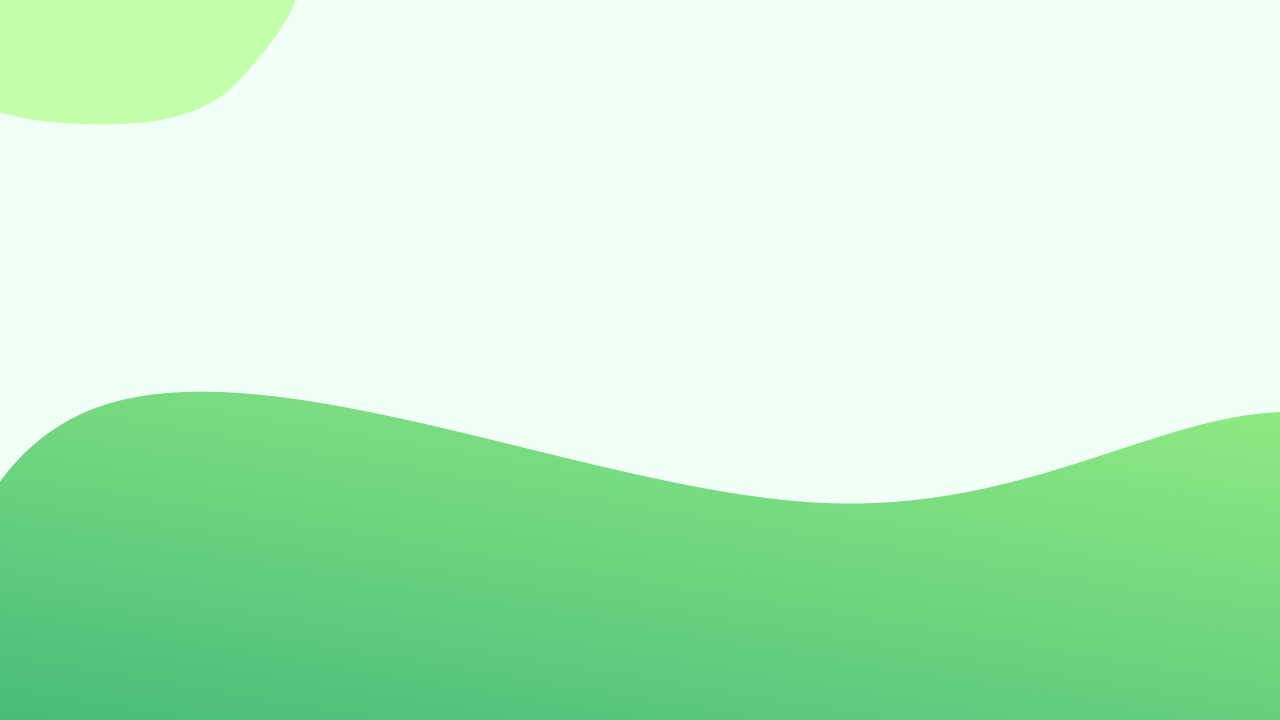
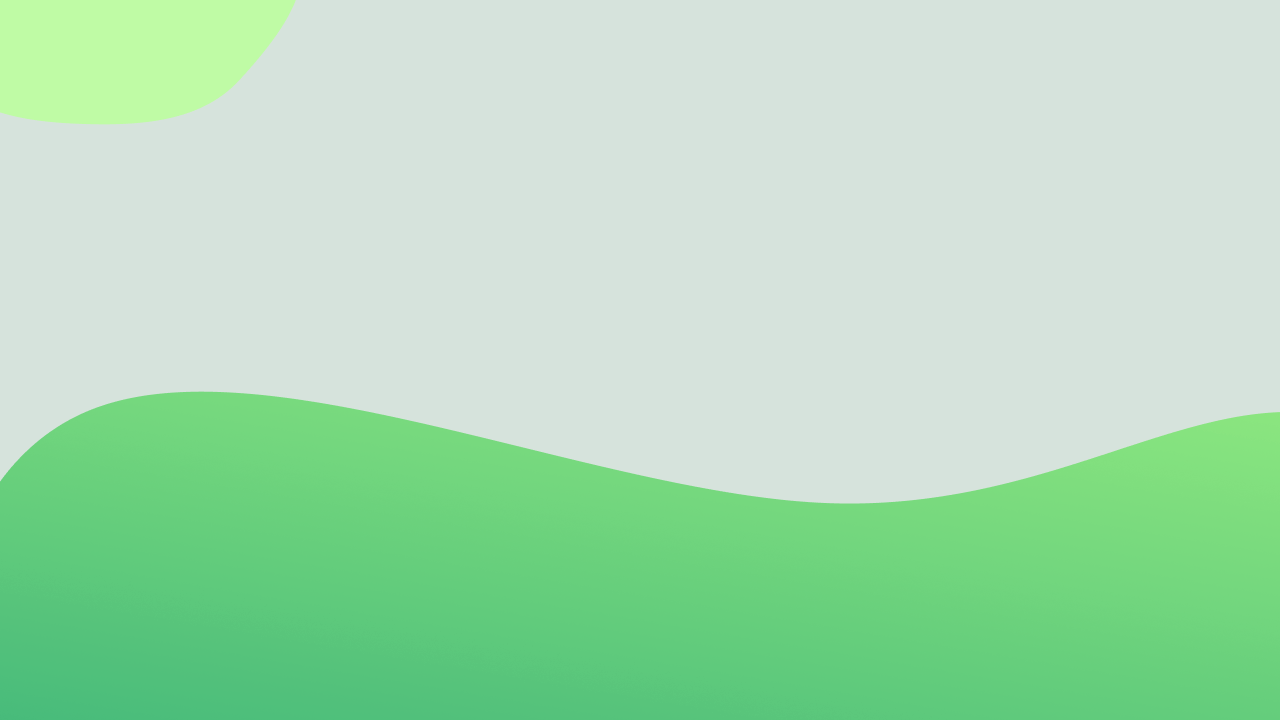
Upd: atualizações no estilo das páginas

diff --git a/public/style.css b/public/style.css
@@ -18,7 +18,7 @@
     height: 100vh;
     display: flex;
     flex-direction: column;
-    background-color: rgba(238, 255, 245, 0.84)
+    background-color: rgba(206, 222, 213, 0.84)
 
     
 }
@@ -55,8 +55,8 @@
     height: 100%;
     color: #fff;
     transition: all 600ms ease-in-out;
-    background: linear-gradient(to right, transparent 0%, black 200%);
-    opacity: 0.1;
+    
+    opacity: 0.6;
     cursor: pointer;
     border: none;
 }
@@ -69,11 +69,14 @@
 .arrow-right {
     right: 0;
     text-align: right;
+    background: linear-gradient(to right, transparent 0%, black 200%);
 }
 
 .arrow-left {
     left: 0;
-    text-align: right;
+    text-align: left;
+    background: linear-gradient(to left, transparent 0%, black 200%);
+
 }
 
 .gallery {
@@ -105,6 +108,25 @@
     scrollbar-width: none;
 }
 
+.prateleira {
+    background-image: url('./images/prateleira.png');
+    background-repeat: no-repeat;
+    background-size: contain;
+    background-position: center;
+    position: relative;
+    display: flex;
+    justify-content: center;
+}
+
+.shelf {
+    display: flex;
+    gap: 5px;
+    height: 45%;
+    width: 45%;
+    padding-top: 5%;
+    padding-left: 2%;
+    flex-wrap: wrap;
+}
 
 /* @Autor: Davi */
 .bodyHome {
@@ -190,6 +212,8 @@ header{
 
 .sectionBox{
     width: 30%;
+    margin-right: auto;
+    align-items: start;
 }
 
 .headerText{
@@ -210,13 +234,16 @@ header{
     font-weight: bolder;
 
     overflow-wrap: break-word;
+
+    margin-bottom: 1.5rem;
 }
 
 .bodyText{
     font-family: Roboto, Helvetica, sans-serif;
     font-size: 20px;
+    color: #207A29;
 
-    line-height: 30px;
+    /* line-height: 30px; */
 
     overflow-wrap: break-word;
 }
@@ -246,32 +273,33 @@ input, select {
 
 }
 
-button {
-    background-color: #4CAF50;
+#beginBtn {
+    background-color: #8BE67E;
     border: none;
-    color: white;
+    color: black;
     text-align: center;
     text-decoration: none;
     font-size: 24px;
-    font-weight: bold;
+    font-weight: 500;
     
     box-shadow: 0 4px #999;
     
-    border-radius: 10px;
+    border-radius: 30px;
     padding: 5px;
-    margin: 5px;
-    margin-top: 25px;
+    margin:  1.5rem 0px 5px 0;
 
-    width: 150px;
-    height: 50px;
+    width: 270px;
+    height: 60px;
+
+    transition: all 600ms;
 }
 
-button:hover {
-    background-color: #357737;
+#beginBtn:hover {
+    background-color: #68b05f;
     cursor:pointer;
 }
 
-button:active {
+#beginBtn:active {
   background-color: #3e8e41;
   box-shadow: 0 1px #666;
   transform: translateY(4px);
@@ -307,25 +335,8 @@ button:active {
     right: 45%;
 }
 
-
-.prateleira {
-    background-image: url('./images/prateleira.png');
-    background-repeat: no-repeat;
-    background-size: contain;
-    background-position: center;
-    position: relative;
-    display: flex;
-    justify-content: center;
-}
-
-.shelf {
-    display: flex;
-    gap: 5px;
-    height: 45%;
-    width: 45%;
-    padding-top: 5%;
-    padding-left: 2%;
-    flex-wrap: wrap;
+#shelf {
+    width: 700px;
 }
 
 /* @author {Arthur} */
@@ -464,4 +475,8 @@ button:active {
     text-shadow: -1px 0 white, 0 1px white, 1px 0 white, 0 -1px white;
     margin-bottom: 4%;
     font-family: 'Roboto Condensed', sans-serif;
+}
+
+#subtitle {
+    transition: all 5s;
 }

diff --git a/public/pages/homeUser.js b/public/pages/homeUser.js
@@ -78,7 +78,7 @@ export default function homeUser() {
     // cria a imagem do aside
     const imgAside = document.createElement('img');
     imgAside.classList.add('link');
-    imgAside.setAttribute('src', '/images/prateleira.png');
+    imgAside.setAttribute('src', '/images/estante.png');
     imgAside.setAttribute('id', 'shelf');
     imgAside.onclick = () => spa.redirect("/bookshelves");
 
